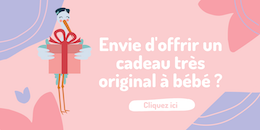
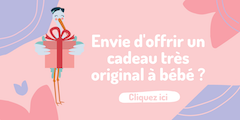
improve booking visibility

diff --git a/app/components/transition/styles.scss b/app/components/transition/styles.scss
@@ -29,8 +29,8 @@
 }
 
 .offer-container {
-  width: 260px !important;
-  height: 130px;
+  width: 240px !important;
+  height: 120px;
   background-image: url(./album_friend_offer_final.png);
   background-size: contain;
   border-radius: 10px;
@@ -38,8 +38,8 @@
 }
 
 .shine-me {
-  width:260px; /*Make sure the animation is over the whole element*/
-  height:130px;
+  width:240px; /*Make sure the animation is over the whole element*/
+  height:120px;
   -webkit-animation-name: ShineAnimation;
   -webkit-animation-duration: 8s;
   -webkit-animation-iteration-count: infinite;
